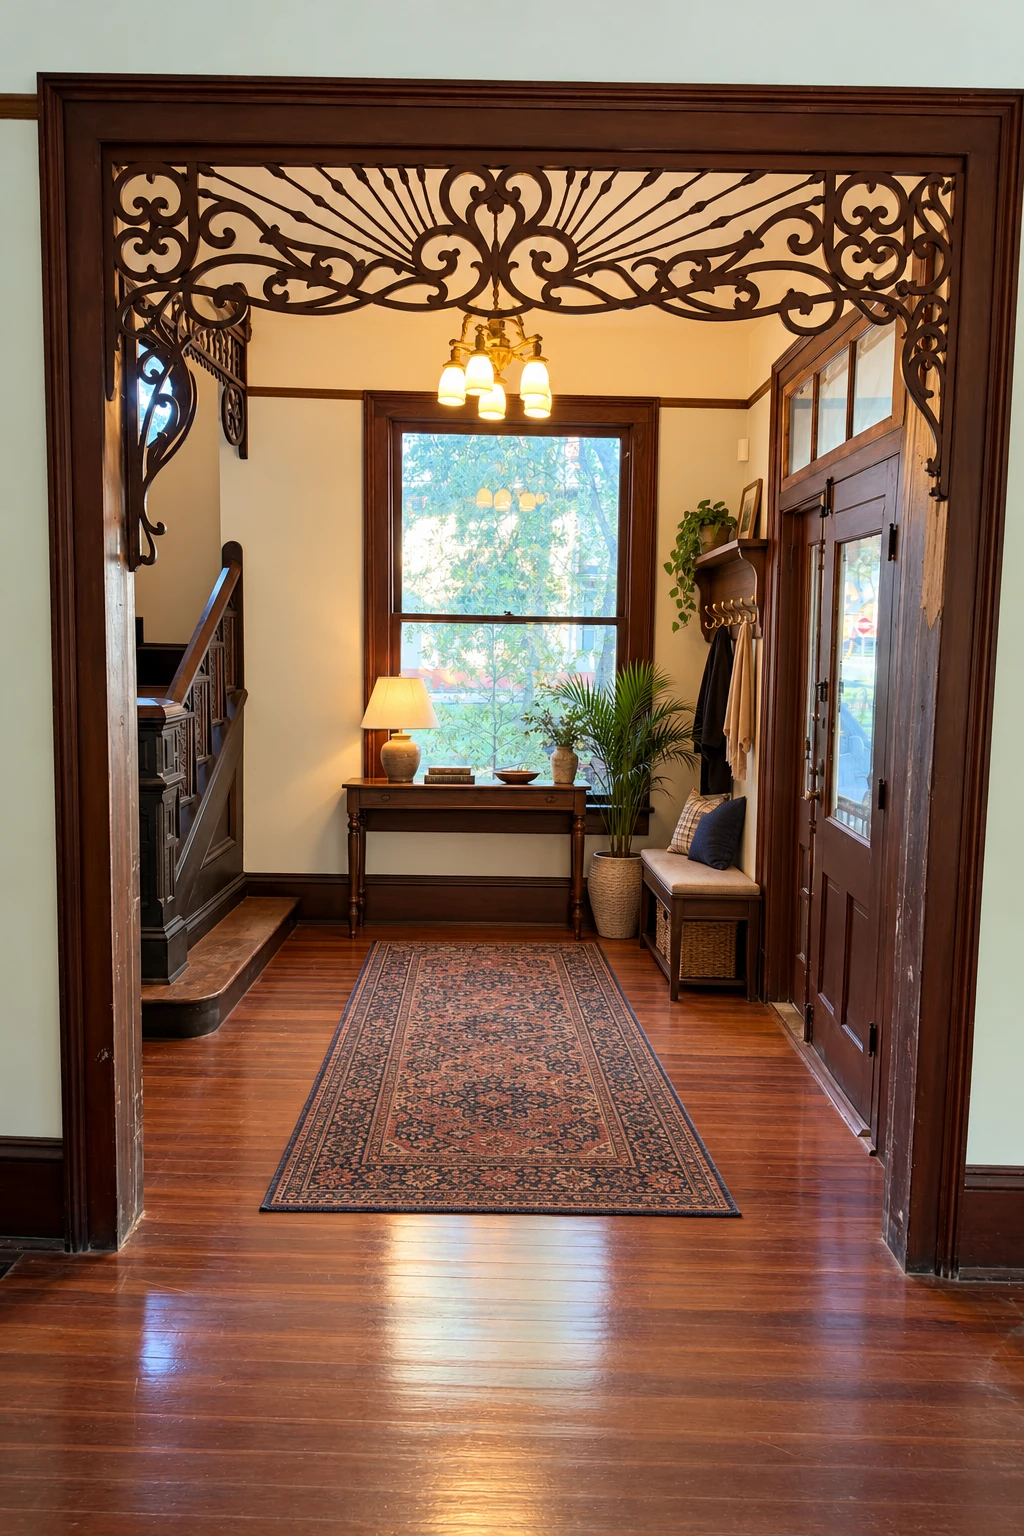
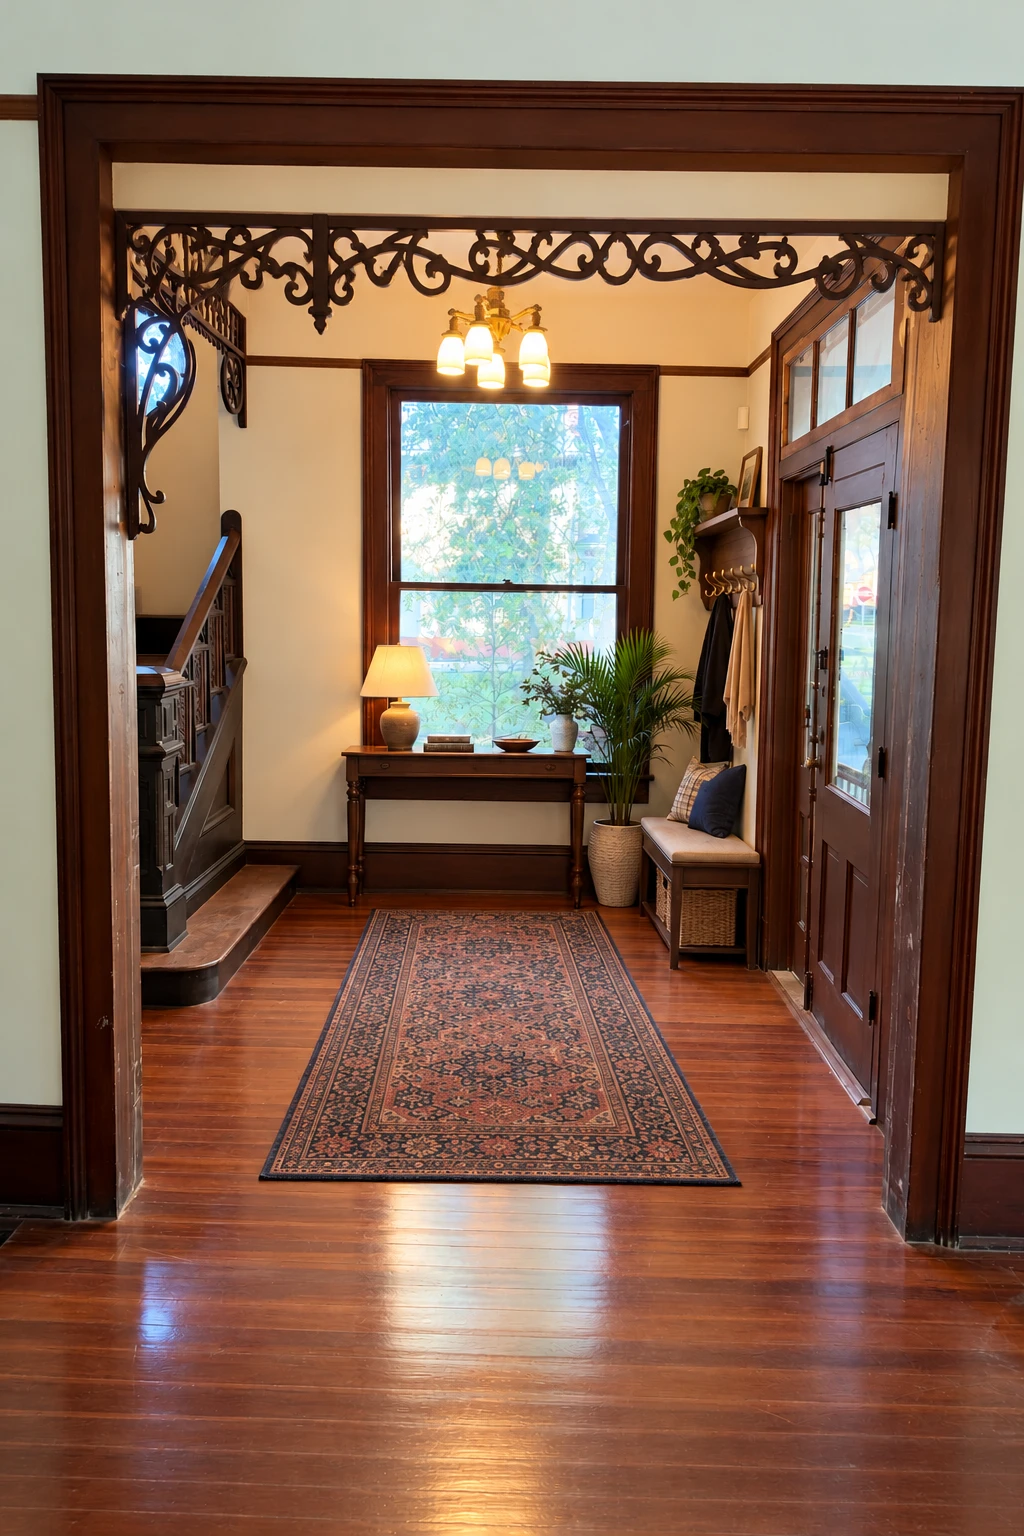
Add the entry hall today/concept slider
ChatGPT's second pass keeps the doorway's real narrow fretwork band and
lines up with the photo, so it goes in as a second slider under When
it's finished, mirrored against the living room on desktop.

Claude-Session: https://claude.ai/code/session_01HHhNeFoxKeXYtJ9rwuHu6G

diff --git a/site/photos.html b/site/photos.html
@@ -88,7 +88,7 @@
       <a href="#today">Outside <span class="count">4</span></a>
       <a href="#inside">Inside <span class="count">6</span></a>
       <a href="#transformation">The transformation</a>
-      <a href="#finished">When it&rsquo;s finished <span class="count">3</span></a>
+      <a href="#finished">When it&rsquo;s finished <span class="count">4</span></a>
     </nav>
     <div class="actions" style="margin-top:18px"><a class="pill" href="./#guest-list">Join the guest list</a></div>
   </section>
@@ -218,6 +218,23 @@
         <figcaption class="note-script">the living room on game day</figcaption>
       </figure>
       </div>
+      <div class="transform-grid finished-grid is-flip">
+        <figure class="cab compare-card">
+        <div class="compare r-23" data-compare>
+          <picture><source type="image/webp" srcset="images/entry-today-600.webp 600w, images/entry-today-1024.webp 1024w" sizes="(min-width: 960px) 520px, 100vw"><img src="images/entry-today-1024.jpg" srcset="images/entry-today-600.jpg 600w, images/entry-today-1024.jpg 1024w" sizes="(min-width: 960px) 520px, 100vw" width="1024" height="1536" alt="Today: the entry hall seen through a wide doorway, mid-work, with torn drywall above the fretwork band, a ladder, a broom and a loose screen door." loading="lazy"></picture>
+          <div class="compare-after"><picture><source type="image/webp" srcset="images/entry-concept-600.webp 600w, images/entry-concept-1024.webp 1024w" sizes="(min-width: 960px) 520px, 100vw"><img src="images/entry-concept-1024.jpg" srcset="images/entry-concept-600.jpg 600w, images/entry-concept-1024.jpg 1024w" sizes="(min-width: 960px) 520px, 100vw" width="1024" height="1536" alt="Concept: the same entry hall finished, with the drywall above the fretwork patched, a patterned runner, a wood console and lamp under the window, a palm, and a bench with brass coat hooks by the front doors." loading="lazy"></picture></div>
+          <span class="compare-label is-before">Today</span>
+          <span class="compare-label is-after">Concept</span>
+          <div class="compare-handle" aria-hidden="true"><span class="compare-knob"><svg viewBox="0 0 24 24" fill="none" stroke="currentColor" stroke-width="2" stroke-linecap="round" stroke-linejoin="round"><path d="m9 6-6 6 6 6M15 6l6 6-6 6"/></svg></span></div>
+          <input class="compare-range" type="range" min="0" max="100" value="50" step="1" aria-label="Compare the entry hall today with the concept. Lower values show more of the concept." id="compare-entry">
+        </div>
+        <figcaption class="note-script">the entry hall</figcaption>
+      </figure>
+        <div class="transform-copy">
+          <h3>The entry hall</h3>
+          <p>The clutter cleared and the torn drywall over the doorway patched. The carved staircase, the fretwork and the front doors stay just as they are.</p>
+        </div>
+      </div>
       <div class="gallery finished-gallery">
         <figure class="photo cab w-5 r-tall">
           <a href="images/bedroom-concept-1024.jpg" data-lightbox><span class="tag">Concept</span><picture><source type="image/webp" srcset="images/bedroom-concept-600.webp 600w, images/bedroom-concept-1024.webp 1024w" sizes="(min-width: 760px) 42vw, 100vw"><img src="images/bedroom-concept-1024.jpg" srcset="images/bedroom-concept-600.jpg 600w, images/bedroom-concept-1024.jpg 1024w" sizes="(min-width: 760px) 42vw, 100vw" width="1024" height="1536" alt="Concept rendering of the upstairs primary bedroom: a king bed with a cream upholstered headboard, white bedding with a rust quilt and navy runner, brass lamps on wood nightstands, a bench at the foot, a jute rug and linen curtains on three windows." loading="lazy"></picture></a>
@@ -230,7 +247,7 @@
         <div class="photo w-12 coming">
           <picture class="coming-art"><source type="image/webp" srcset="images/spot-gable.webp"><img src="images/spot-gable.png" width="720" height="496" alt="" loading="lazy"></picture>
           <h3>More rooms on the way</h3>
-          <p>The entry hall, the bathrooms, the porch and the backyard are next.</p>
+          <p>The bathrooms, the porch and the backyard are next.</p>
           <a class="link" href="./#guest-list">Get them by email</a>
         </div>
       </div>

diff --git a/site/css/site.css b/site/css/site.css
@@ -859,3 +859,7 @@ fieldset.field { border: 0; padding: 0; margin: 0; }
 .has-arch .page-title > :not(.page-arch) { position: relative; max-width: calc(min(100cqi, 940px * var(--s)) * 0.78); }
 .has-arch .page-title h1 { font-size: clamp(2.4rem, 0.6rem + calc(6vw * var(--s)), 6.4rem); }
 .page-arch { position: absolute; top: 0; left: 50%; transform: translateX(-50%); width: min(100cqi, calc(940px * var(--s))); aspect-ratio: 1487 / 755.5; background: var(--pine); -webkit-mask: url(../images/orn-fretwork-arch.svg) 0 0 / 100% 100% no-repeat; mask: url(../images/orn-fretwork-arch.svg) 0 0 / 100% 100% no-repeat; pointer-events: none; }
+.finished-grid.is-flip { margin-top: clamp(calc(48px * var(--s)), calc(6vw * var(--s)), calc(88px * var(--s))); }
+.finished-grid.is-flip h3 { font-size: clamp(1.8rem, 1.3rem + calc(1.6vw * var(--s)), 2.6rem); }
+@media (min-width: 960px) { .finished-grid.is-flip { grid-template-columns: minmax(0, 5.4fr) minmax(0, 5fr); } }
+@media (max-width: 959px) { .finished-grid.is-flip .transform-copy { order: -1; } }
